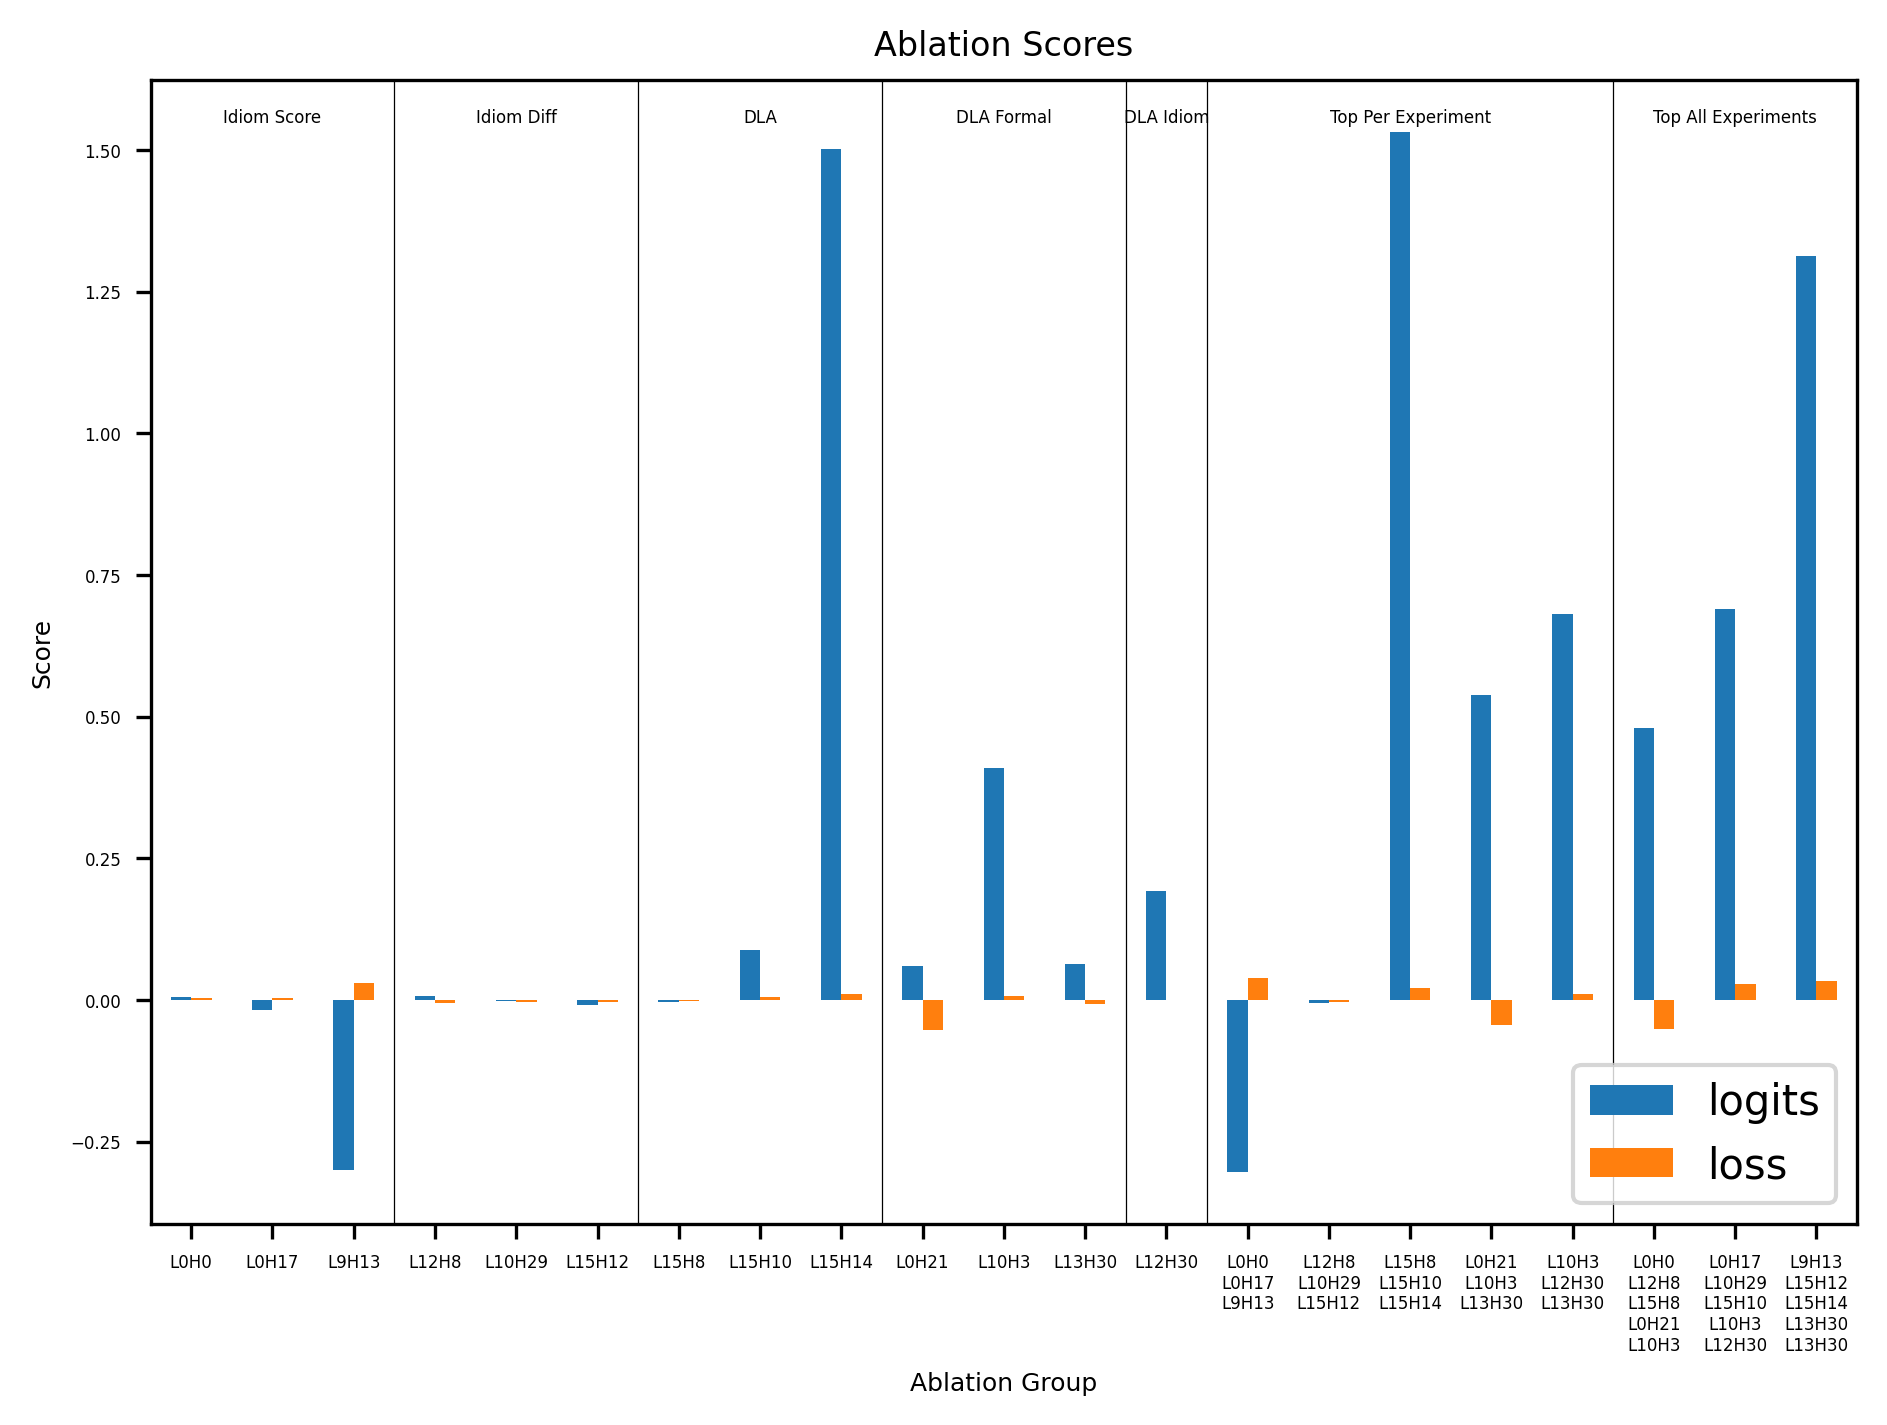
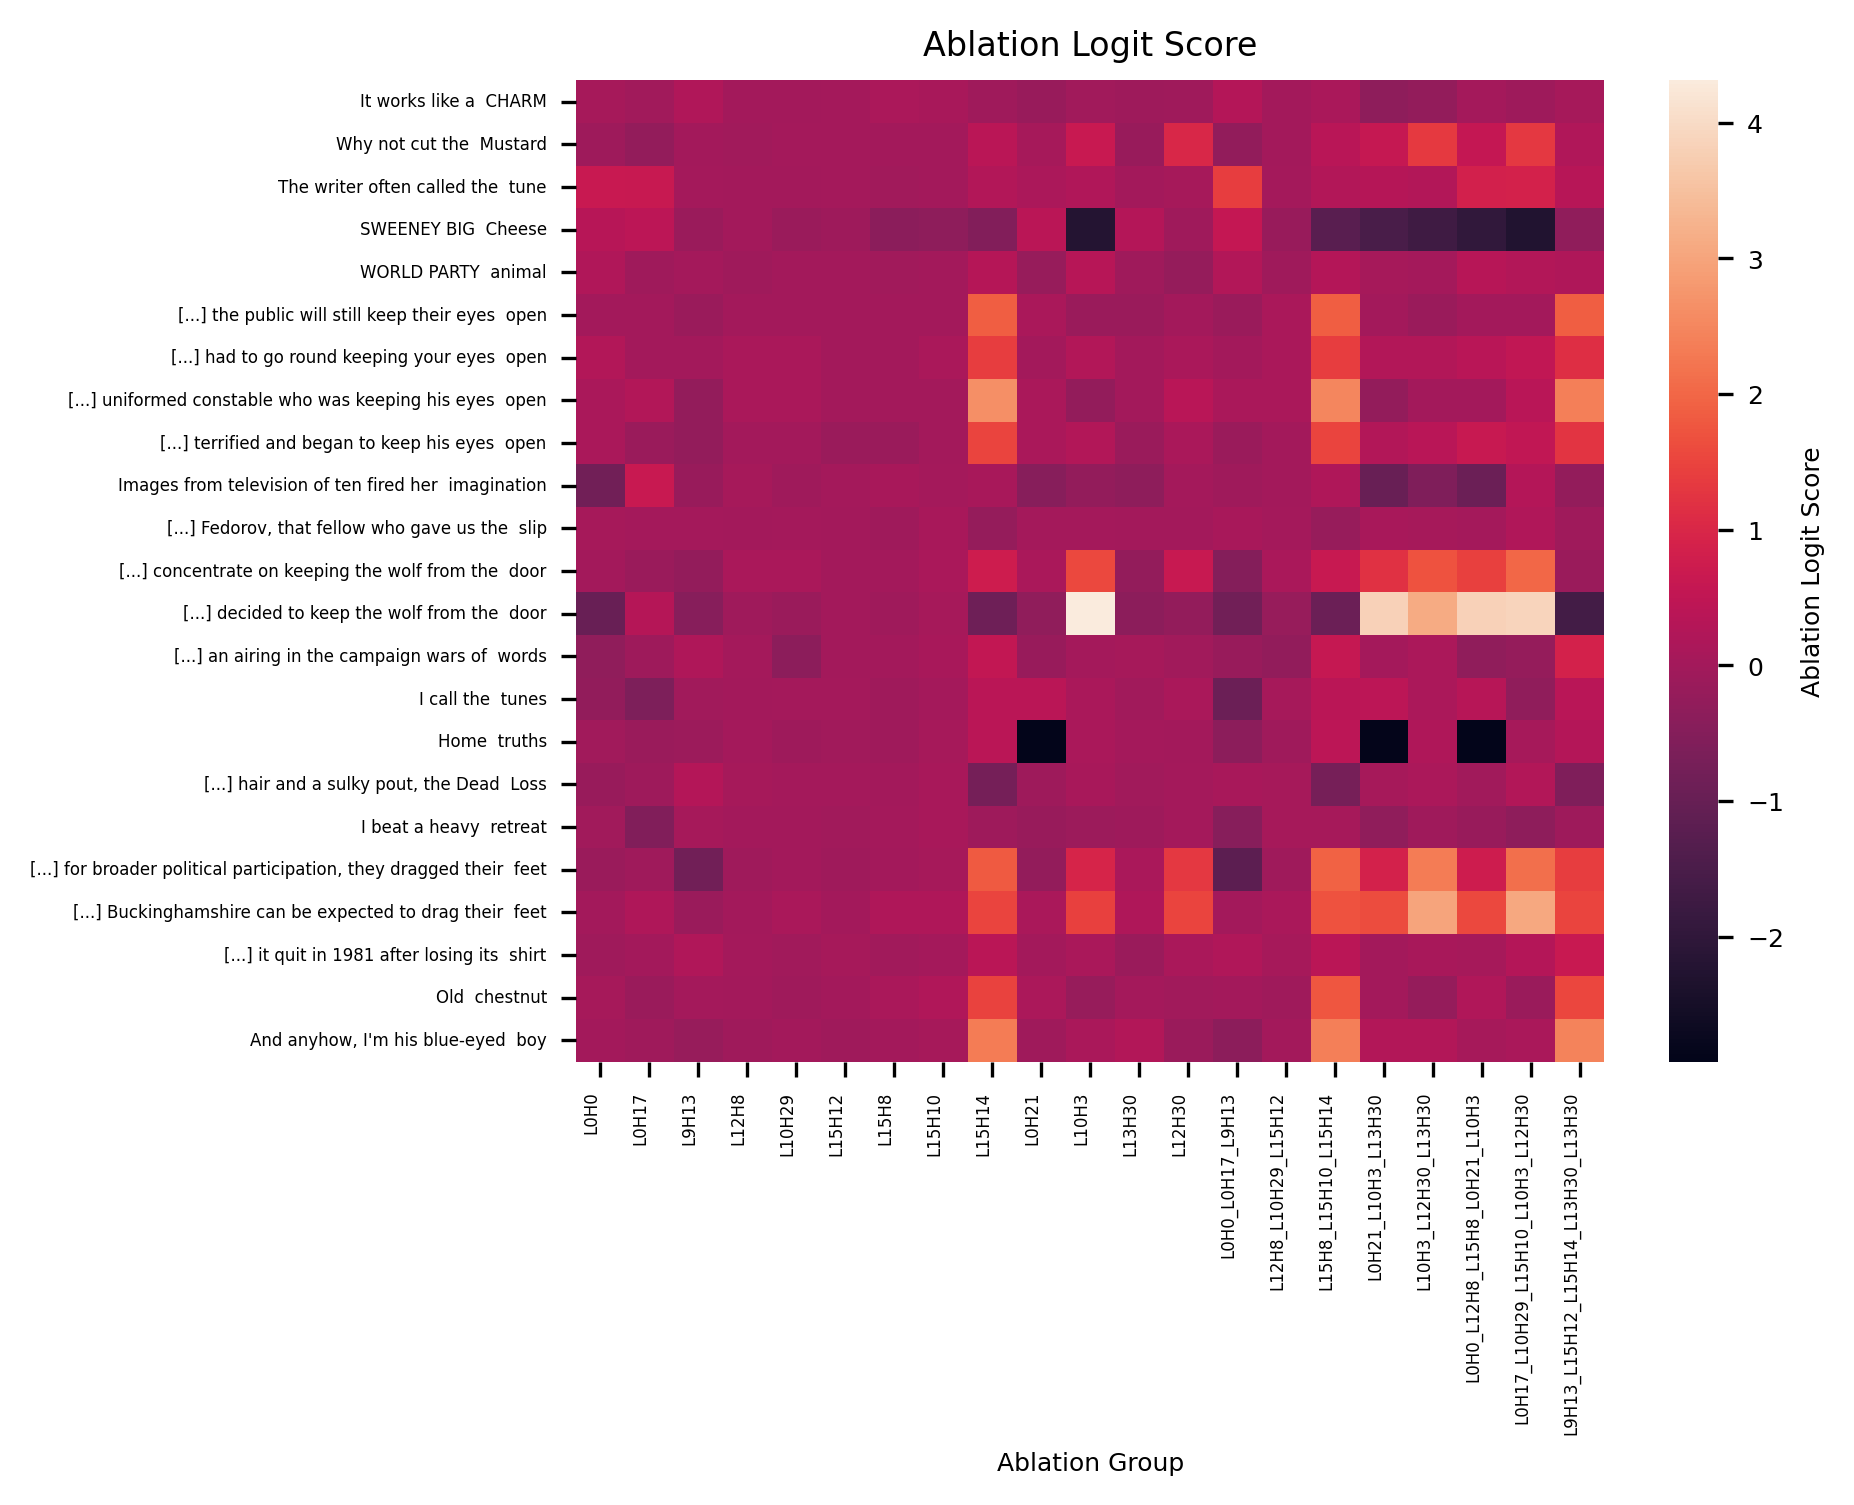
CLEANED ablation legend size llama

diff --git a/plot.py b/plot.py
@@ -964,6 +964,7 @@ def plot_ablation(logit_file, loss_file, outfile=None, model_name=None):
         plt.text(center, ax.get_ylim()[1] * 0.95, section_titles[i], ha='center', va='bottom', fontsize=4)
 
     plt.tight_layout()
+    plt.legend(prop={'size': 6})
     save_plt(outfile, dpi = 300, bbox_inches='tight')
 
 
@@ -1083,21 +1084,22 @@ if __name__ == "__main__":
     else:
         if tensor_file.endswith(".json"):
             # Ablation
-            os.makedirs(f"./plots/{model_name}/ablation", exist_ok=True)
             if img_file != None:
-                split = tensor_file.split('_')[1]
-                filename = f"./plots/{model_name}/ablation/{img_file}.txt"
+                os.makedirs(f"./plots/{model_name}/ablation", exist_ok=True)
+                txt_file = f"./plots/{model_name}/ablation/{img_file}.txt"
+                png_file = f"./plots/{model_name}/ablation/{img_file}.png"
                 heat_file = f"./plots/{model_name}/ablation/heat_{img_file}.png"
             else:
                 filename = None
                 heat_file = None
 
-            compute_accuracy(tensor_file, filename)
+            compute_accuracy(tensor_file, txt_file)
 
-            logit_file = f"scores/ablation/{model_name}/ablation_{img_file}_0_None_logit.pt"
-            loss_file = f"scores/ablation/{model_name}/ablation_{img_file}_0_None_loss.pt"
+            split = tensor_file.split('_')[1]
+            logit_file = f"scores/ablation/{model_name}/ablation_{split}_0_None_logit.pt"
+            loss_file = f"scores/ablation/{model_name}/ablation_{split}_0_None_loss.pt"
 
-            plot_logit_diff_per_sent(logit_file, tensor_file, outfile=filename, model_name=model_name)
+            plot_logit_diff_per_sent(logit_file, tensor_file, outfile=png_file, model_name=model_name)
             plot_ablation(logit_file, loss_file, heat_file, model_name)
         else:
             loaded_tensor = t.load(tensor_file, map_location=t.device(device))
